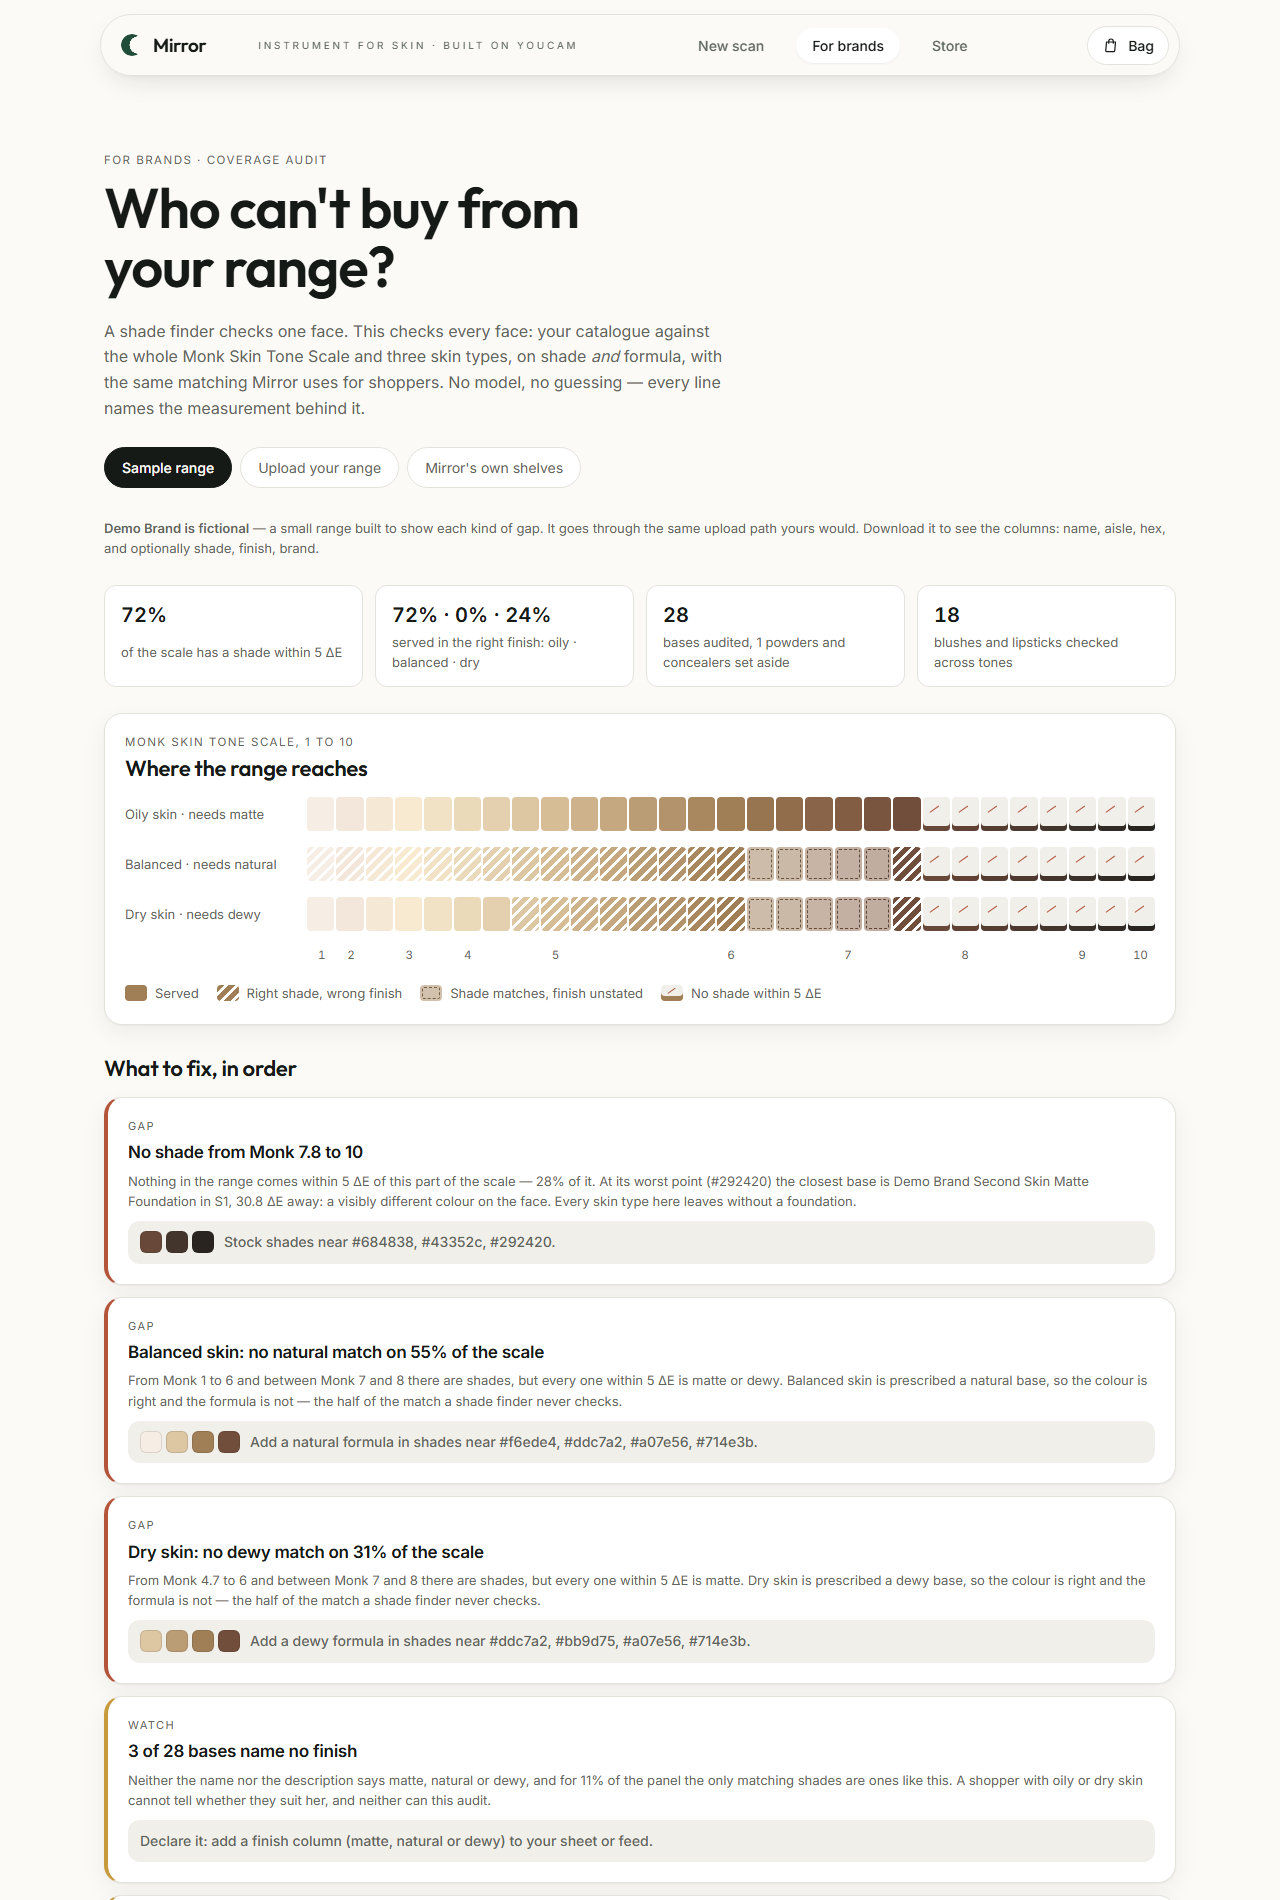
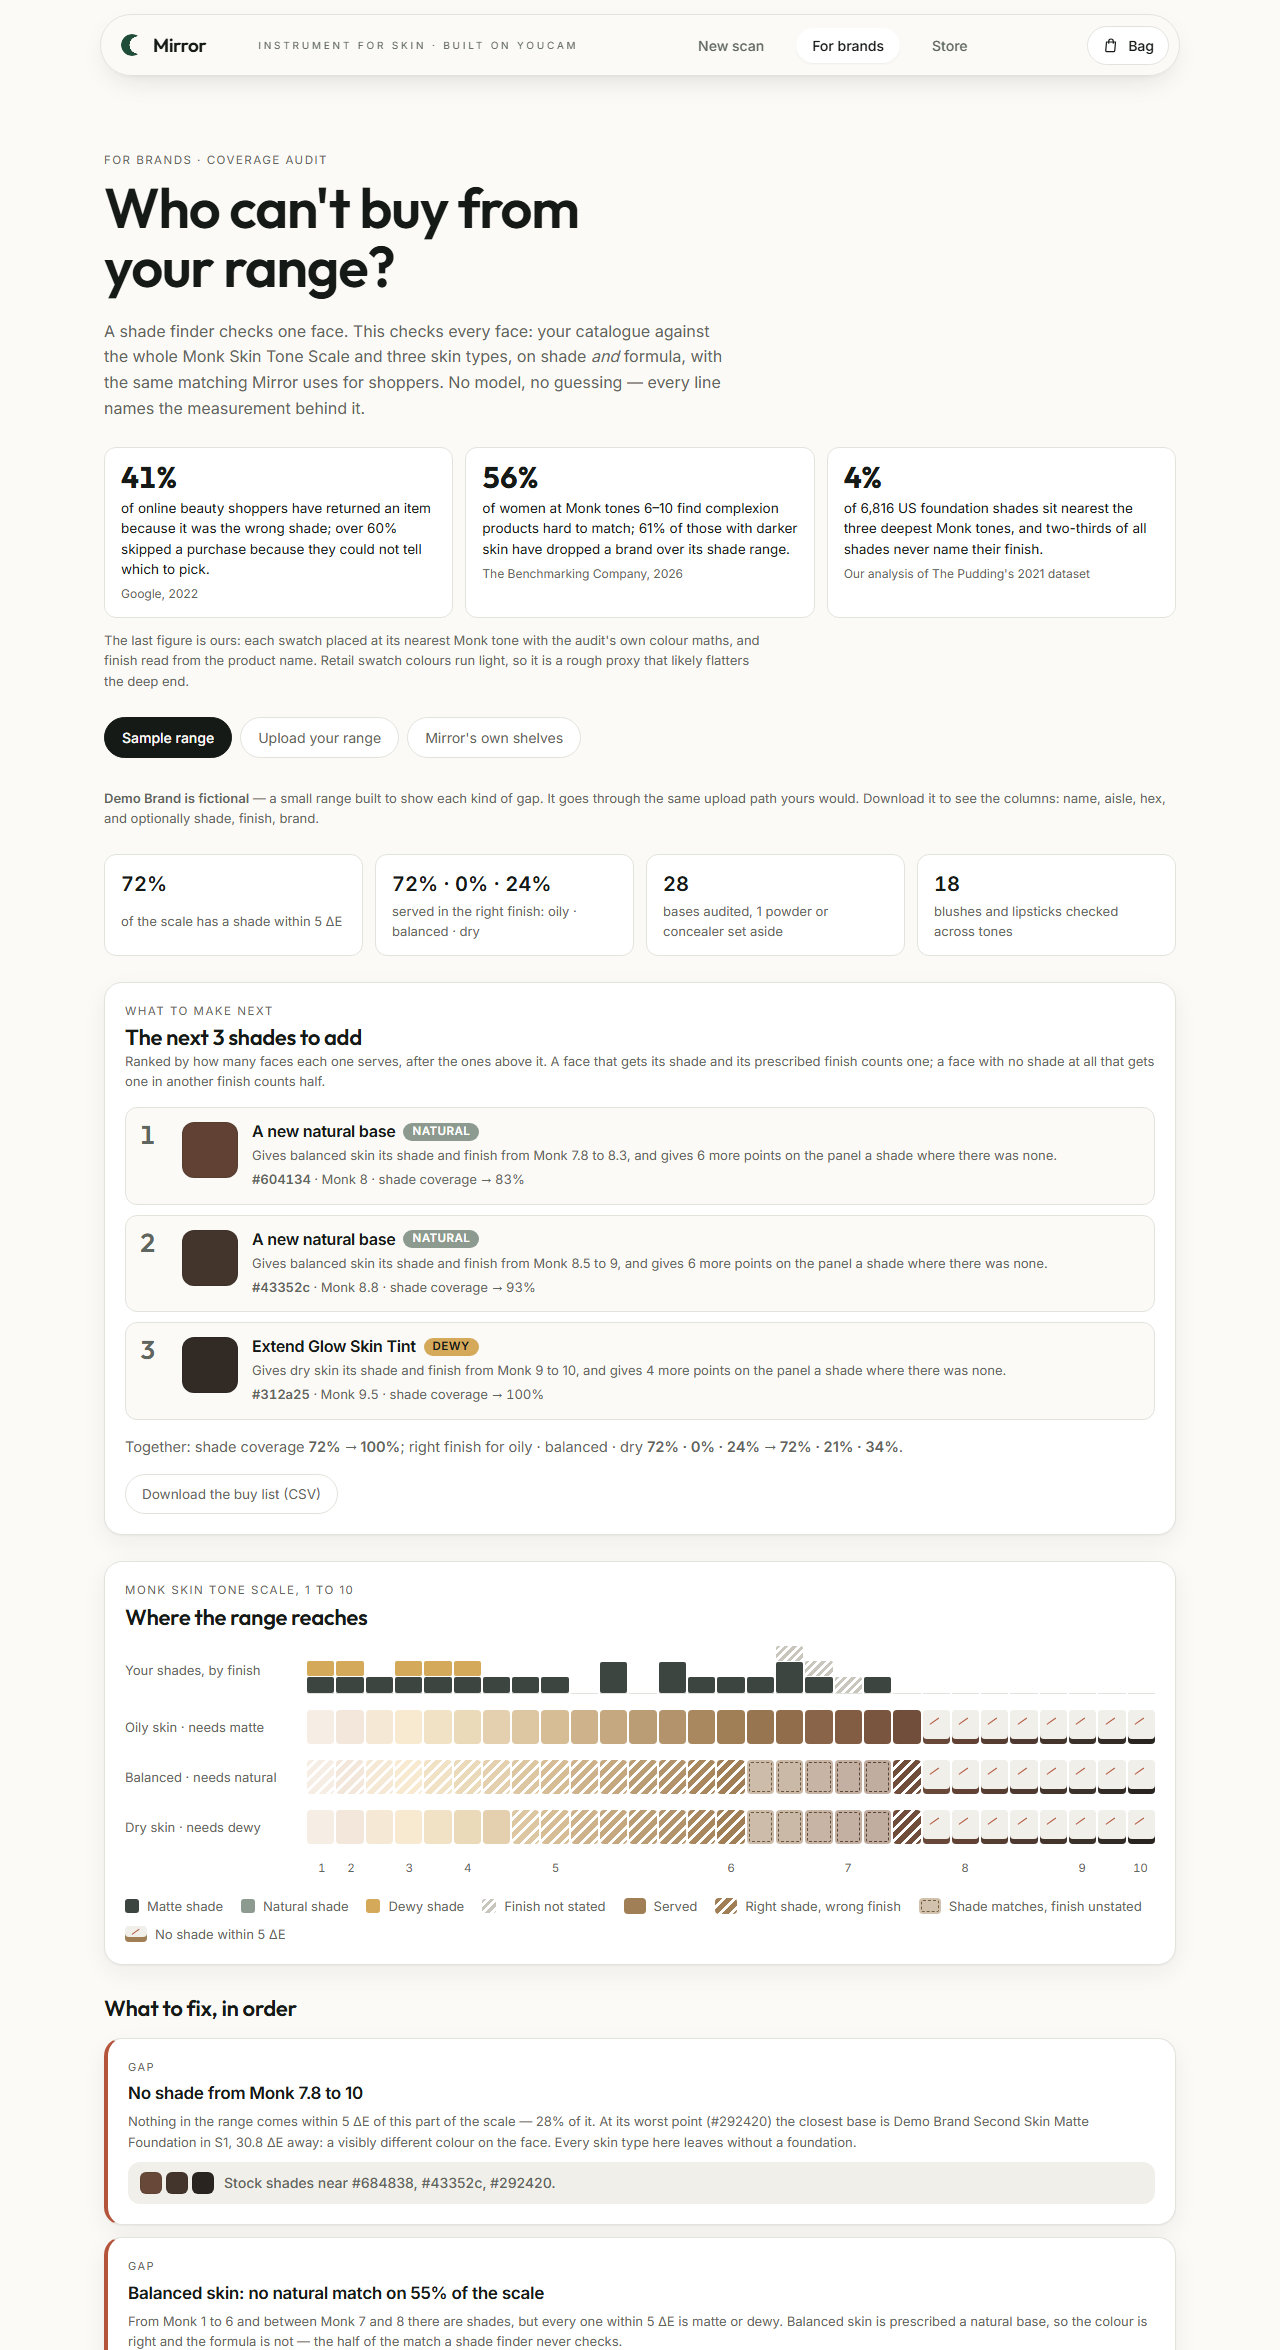
Put the evidence on the page, with its sources
A judge testing the audit should meet the size of the problem before the
tool, and should be able to check every number. Three figures now sit under
the headline, each linked to where it comes from:

- 41% of online beauty shoppers have returned an item for being the wrong
  shade; over 60% skipped a purchase unable to tell which (Google, 2022,
  2,000 US shoppers).
- 56% of women at Monk 6–10 find complexion products hard to match, and 61%
  of those with darker skin have dropped a brand over its range (The
  Benchmarking Company, 2026 — a survey that used the Monk scale itself).
- 4% of 6,816 US foundation shades sit nearest the three deepest Monk tones,
  and two-thirds never name their finish. This one is ours, from The
  Pudding's public 2021 dataset run through the audit's own colour maths; the
  page says so, and says that retail swatch colours run light, so it likely
  flatters the deep end.

Return-rate figures that circulate for beauty (4–12%, "23% for foundation")
were left out: traced back, they come from vendor blogs, not research. No
published measurement of finish mismatch exists, so the README says that half
of the problem is new ground rather than citing one.

The Monk citation is corrected to "Monk, 2019; released by Google in 2022,
CC BY 4.0", and the ten hexes are confirmed against skintone.google. The
README's live link moves to mirror-app.pykero.com, where this version runs,
and its "new since" list gains the ranked additions and the range map.

diff --git a/src/Audit.tsx b/src/Audit.tsx
@@ -122,6 +122,43 @@ export default function Audit({ scan, storeId }: { scan?: ScanForAudit | null; s
             formula, with the same matching Mirror uses for shoppers. No model, no guessing —
             every line names the measurement behind it.
           </p>
+          <ul className="evidence" aria-label="Why this matters">
+            <li>
+              <strong>41%</strong>
+              <span>
+                of online beauty shoppers have returned an item because it was the wrong shade;
+                over 60% skipped a purchase because they could not tell which to pick.
+              </span>
+              <a href="https://blog.google/products/shopping/shopping-inspiration-insights/" target="_blank" rel="noreferrer">
+                Google, 2022
+              </a>
+            </li>
+            <li>
+              <strong>56%</strong>
+              <span>
+                of women at Monk tones 6–10 find complexion products hard to match; 61% of those
+                with darker skin have dropped a brand over its shade range.
+              </span>
+              <a href="https://benchmarkingcompany.com/news/shade-mismatch-inclusivity-2026-infographic-series-1/" target="_blank" rel="noreferrer">
+                The Benchmarking Company, 2026
+              </a>
+            </li>
+            <li>
+              <strong>4%</strong>
+              <span>
+                of 6,816 US foundation shades sit nearest the three deepest Monk tones, and
+                two-thirds of all shades never name their finish.
+              </span>
+              <a href="https://pudding.cool/2021/03/foundation-names/" target="_blank" rel="noreferrer">
+                Our analysis of The Pudding's 2021 dataset
+              </a>
+            </li>
+          </ul>
+          <p className="tiny evidence-note">
+            The last figure is ours: each swatch placed at its nearest Monk tone with the audit's
+            own colour maths, and finish read from the product name. Retail swatch colours run
+            light, so it is a rough proxy that likely flatters the deep end.
+          </p>
         </header>
       )}
 
@@ -790,8 +827,12 @@ function Method() {
       <summary>How this is measured</summary>
       <div className="stack tiny">
         <p>
-          <strong>The panel.</strong> The ten tones of the Monk Skin Tone Scale (Dr. Ellis Monk,
-          published by Google under CC BY 4.0), with points laid between them so no skin colour
+          <strong>The panel.</strong> The ten tones of the{' '}
+          <a href="https://skintone.google/" target="_blank" rel="noreferrer">
+            Monk Skin Tone Scale
+          </a>{' '}
+          (Dr. Ellis Monk, 2019; released by Google in 2022 under CC BY 4.0), with points laid
+          between them so no skin colour
           on the scale is more than half a match from one — the published tones are unevenly
           spaced, and real skin falls in the gaps. Each point is audited three times: for oily,
           balanced and dry skin, each prescribed by the same function that prescribes a

diff --git a/src/App.css b/src/App.css
@@ -2378,3 +2378,45 @@
     min-width: 3px;
   }
 }
+
+/* Why it matters: three sourced figures under the audit's headline. */
+.evidence {
+  display: grid;
+  grid-template-columns: repeat(auto-fit, minmax(220px, 1fr));
+  gap: 12px;
+  list-style: none;
+  margin: 22px 0 0;
+  padding: 0;
+}
+
+.evidence li {
+  display: grid;
+  gap: 6px;
+  align-content: start;
+  padding: 14px 16px;
+  border: 1px solid var(--line);
+  border-radius: var(--radius-sm);
+  background: var(--card);
+}
+
+.evidence strong {
+  font-family: Outfit, ui-sans-serif, system-ui, sans-serif;
+  font-size: 30px;
+  line-height: 1;
+  font-variant-numeric: tabular-nums;
+}
+
+.evidence span {
+  font-size: 13.5px;
+  line-height: 1.5;
+}
+
+.evidence a {
+  font-size: 12px;
+  color: var(--ink-2);
+}
+
+.evidence-note {
+  margin-top: 8px;
+  max-width: 80ch;
+}

diff --git a/src/lib/coverage.ts b/src/lib/coverage.ts
@@ -27,8 +27,10 @@ export const FINISHES: Finish[] = ['matte', 'natural', 'dewy']
 /**
  * The Monk Skin Tone Scale: ten tones, lightest to deepest.
  *
- * Developed by Dr. Ellis Monk and published by Google under CC BY 4.0 for
- * exactly this job — checking whether a system works across skin tones. Chosen
+ * Developed by Dr. Ellis Monk (2019) and released openly by Google in 2022
+ * under CC BY 4.0 for exactly this job — checking whether a system works
+ * across skin tones. The hexes are the scale's published reference colours,
+ * checked against skintone.google. Chosen
  * over Fitzpatrick because Fitzpatrick was built to predict sunburn and
  * compresses deep skin into two of its six types, which is where ranges fail.
  */

diff --git a/README.md b/README.md
@@ -5,7 +5,7 @@
 Mirror reads one selfie and shops for you. Every product it shows names the
 measurement that chose it, and you can see most of them on your own face.
 
-**Live: [mirror.pykero.com](https://mirror.pykero.com)** — no sign-in needed to
+**Live: [mirror-app.pykero.com](https://mirror-app.pykero.com)** — no sign-in needed to
 scan and shop. Android APK: [`mirror.apk`](mirror.apk).
 
 ## New since the last submission
@@ -18,7 +18,7 @@ submission period, and the commit history dates it.
 Mirror did before asks what suits *one face*. A brand needs the inverse —
 across every face, *who does this range fail?* — and can never get it from its
 own data, because a shopper with no shade leaves without buying, so she shows
-up in neither the sales nor the returns. Open **[`/audit`](https://mirror.pykero.com/audit)**
+up in neither the sales nor the returns. Open **[`/audit`](https://mirror-app.pykero.com/audit)**
 (no sign-in):
 
 - **A whole catalogue against the whole skin-tone scale.** The ten tones of the
@@ -42,9 +42,41 @@ up in neither the sales nor the returns. Open **[`/audit`](https://mirror.pykero
   closest product the range actually stocks, worn in its own finish, next to
   what that face was prescribed. A ΔE convinces an analyst; a face convinces a
   buyer.
+- **What to make next, ranked.** A list of gaps says where a range fails; a
+  buyer's real question is *"I can add three products — which?"* The audit
+  answers it: the colour and finish that serves the most faces still unserved,
+  then the next given that one, each naming the brand's own line to extend
+  when it has one in that finish. A face that gets its shade and finish counts
+  one; a face with no shade at all that gets one counts half. On the sample
+  range, three picks take shade coverage from 72% to 100%. A buy list a
+  merchandiser can forward downloads as CSV.
+- **A range map** above the strip: every shade the range stocks, stacked by
+  finish at its point on the scale, so the reason for a gap is visible — the
+  shelf bunched at the light end, nearly all of it matte.
 - **Merchants can now state a finish** (matte, natural, dewy) in the form, the
   spreadsheet, feeds and SDK pushes, and a signed-in store gets the audit of its
   own catalogue under a new **Coverage** tab.
+
+**Why it matters**, from sources we checked:
+
+- **41%** of online beauty shoppers have returned an item because it was the
+  wrong shade, and over 60% decided not to buy because they could not tell
+  which shade to choose — Google's survey of 2,000 US shoppers
+  ([Google, 2022](https://blog.google/products/shopping/shopping-inspiration-insights/)).
+- **56%** of women at Monk tones 6–10 find complexion products hard to match
+  (41% overall), and 61% of those with darker skin have abandoned a brand over
+  its shade range — a 4,300-woman survey that used the Monk scale itself
+  ([The Benchmarking Company, 2026](https://benchmarkingcompany.com/news/shade-mismatch-inclusivity-2026-infographic-series-1/)).
+- **4%** of 6,816 US foundation shades (328 products, 107 brands at Sephora and
+  Ulta) sit nearest the three deepest Monk tones; 65% of those products offer
+  nothing at Monk 8 or deeper; and two-thirds of all the shades never name
+  their finish in the product name. That is our own analysis of
+  [The Pudding's 2021 dataset](https://pudding.cool/2021/03/foundation-names/),
+  using the audit's colour maths — and since retail swatch colours run light,
+  a rough proxy that likely flatters the deep end.
+
+We found no published measurement of finish mismatch at all. That half of the
+problem is new ground, which is the point.
 
 It is deterministic — no model in the loop — and honest about its limits,
 which are spelled out on the page. One we found the hard way: pointed at the
